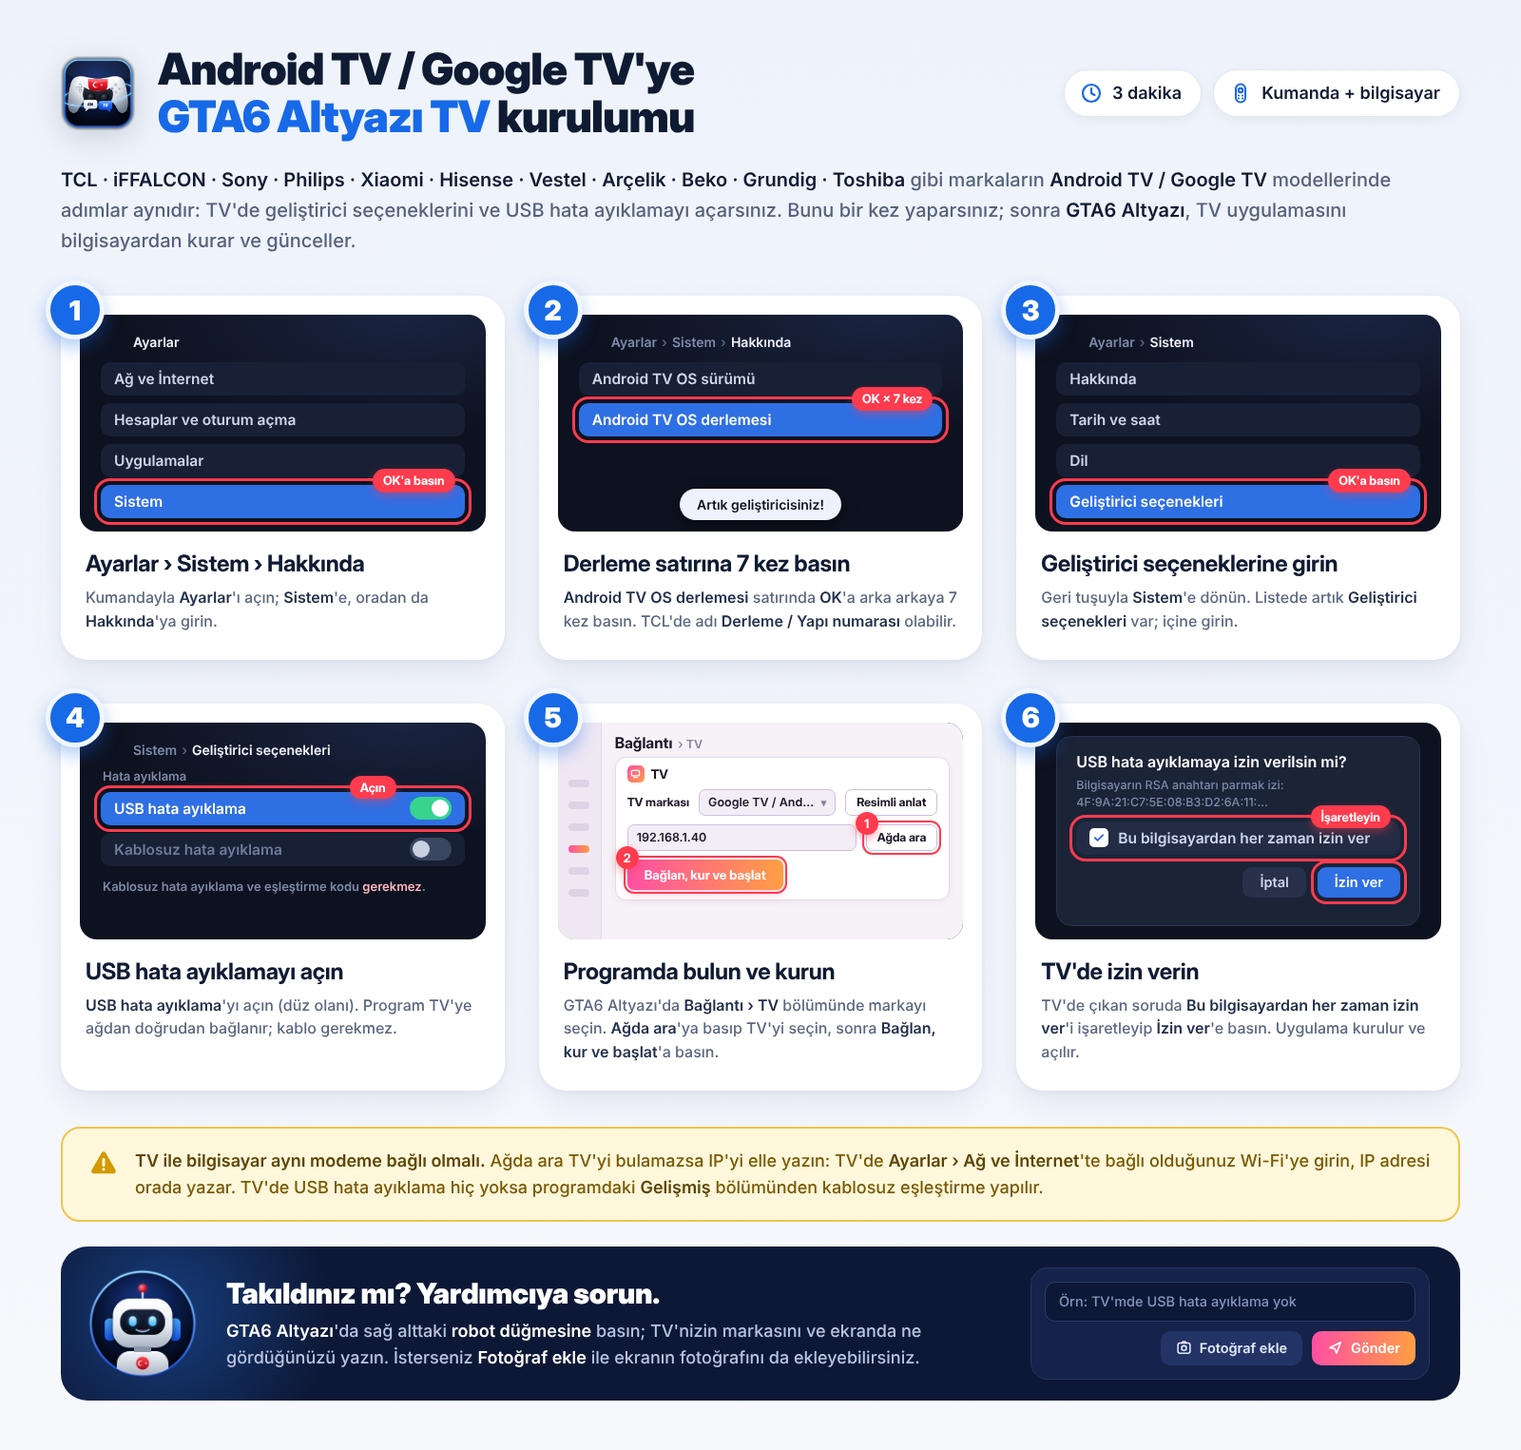
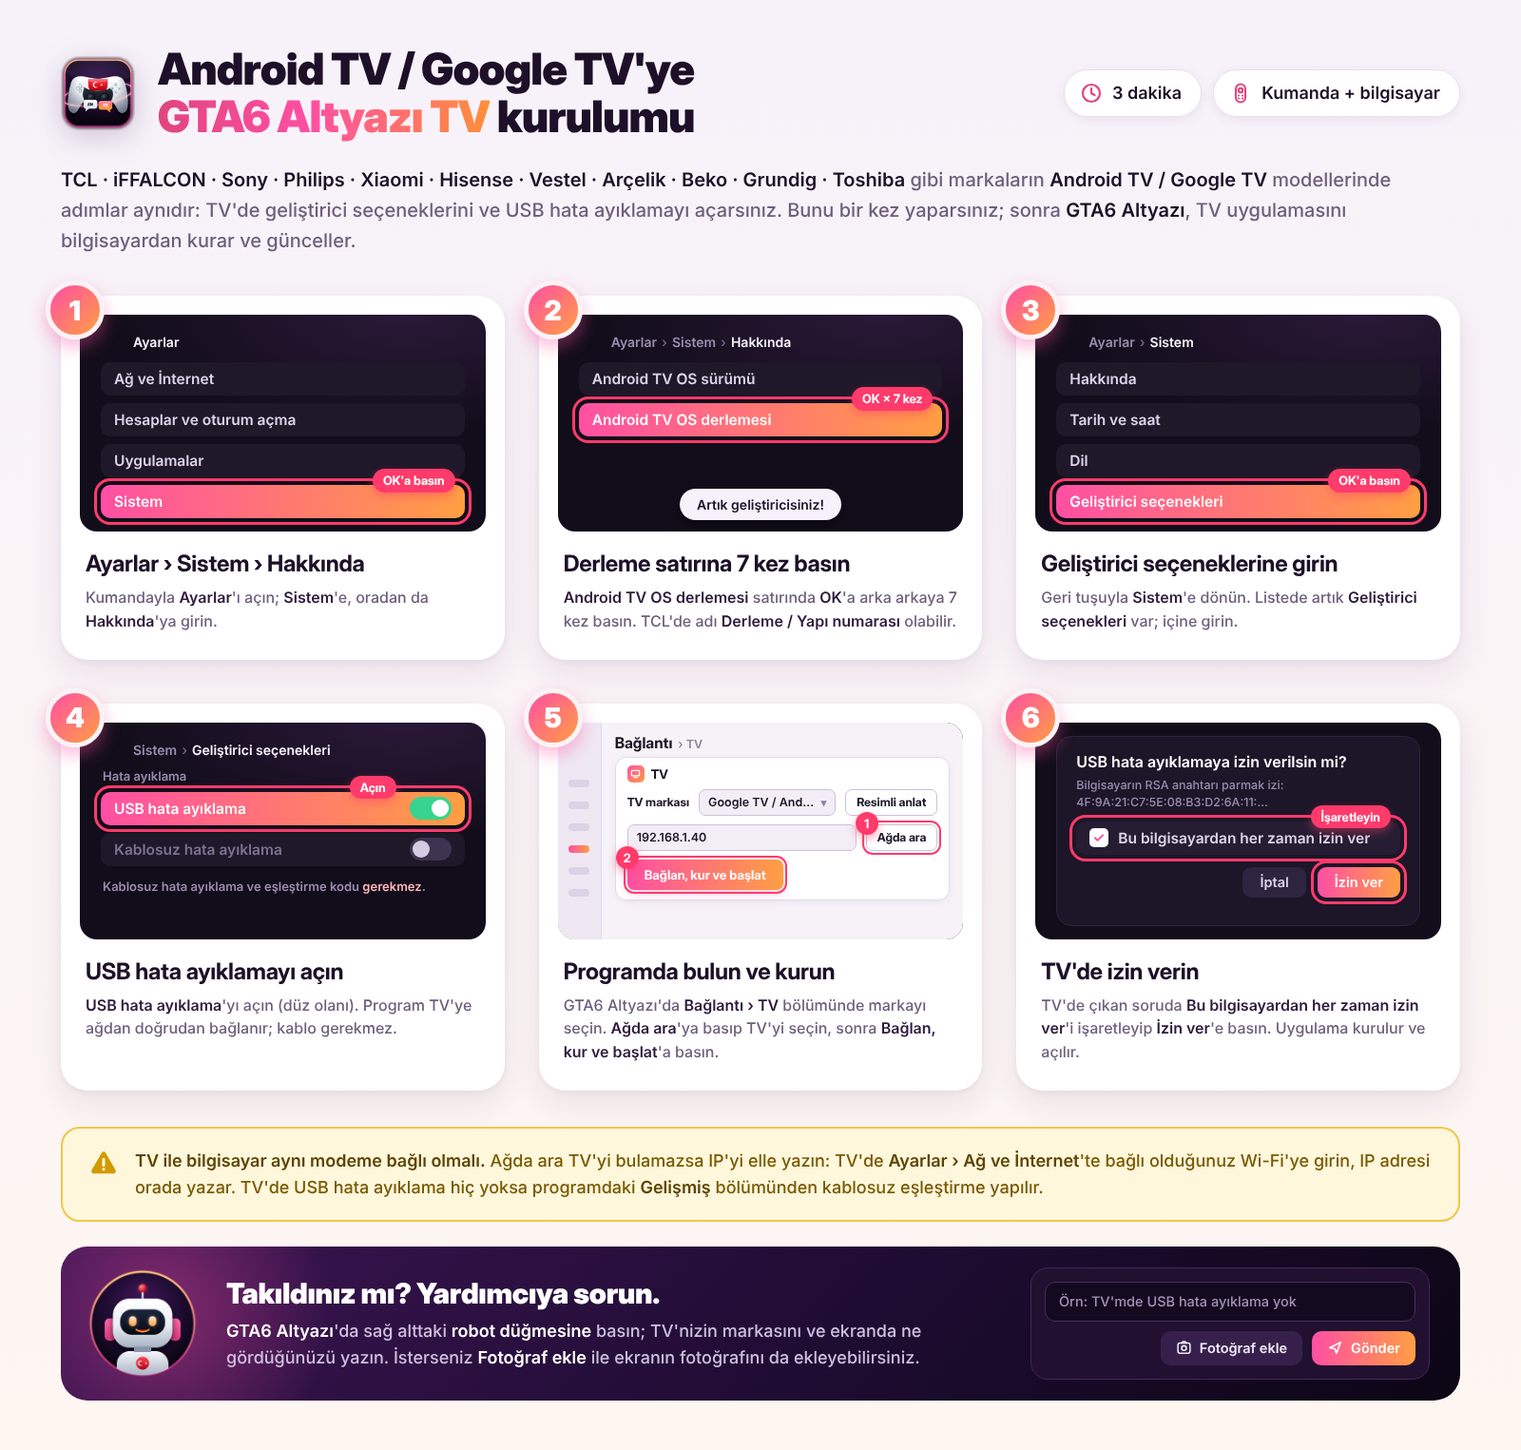
Görsellerin yeniden renklendirilmesi (ara kayıt)
Claude-Session: https://claude.ai/code/session_01Vsk1KccPrUYCuPzBtpR9u6

diff --git a/tools/kurulum_gorsel/sablon.html b/tools/kurulum_gorsel/sablon.html
@@ -15,28 +15,29 @@
 @font-face { font-family: "InterD"; font-weight: 900; src: url("../marka/fonts/InterDisplay-Black.otf"); }
 
 :root {
-  --navy: #0f1b33; --blue: #1769e8; --muted: #56627c; --hl: #2f6fe4; --red: #ff3b4e;
-  --tv: #0d1220; --tvrow: #182035; --tvtext: #cdd6ec; --tvfaint: #7d89a8;
+  --navy: #1d1028; --blue: #e0457f; --muted: #6e5f7d; --hl: linear-gradient(90deg, #ff4fa3, #ff9f43); --hlc: #ff4fa3; --red: #ff3b6b;
+  --grad: linear-gradient(135deg, #ff4fa3, #ff9f43);
+  --tv: #120d1a; --tvrow: #1f1829; --tvtext: #ddd3ea; --tvfaint: #9a8cae;
 }
 * { box-sizing: border-box; margin: 0; padding: 0; }
 html, body { width: 1600px; }
 body {
   font-family: "Inter", sans-serif; font-weight: 500; color: var(--navy);
-  background: linear-gradient(180deg, #eef3fb 0%, #f6f8fc 100%);
+  background: linear-gradient(180deg, #f7f2fa 0%, #fdf6f1 100%);
   padding: 48px 64px 52px; -webkit-font-smoothing: antialiased;
 }
 b { font-weight: 600; }
 
 /* ---------- üst kısım */
 .head { display: flex; align-items: center; gap: 24px; }
-.head .logo { width: 78px; height: 78px; flex: none; filter: drop-shadow(0 8px 16px rgba(15, 27, 51, .18)); }
+.head .logo { width: 78px; height: 78px; flex: none; filter: drop-shadow(0 8px 16px rgba(61, 21, 84, .22)); }
 .head h1 { flex: 1; font-family: "InterD"; font-weight: 900; font-size: 46px; line-height: 1.08; letter-spacing: -0.02em; }
-.head h1 em { font-style: normal; color: var(--blue); }
+.head h1 em { font-style: normal; color: #e0457f; background: linear-gradient(90deg, #e0457f 0%, #ff4fa3 45%, #ff8f3a 100%); -webkit-background-clip: text; background-clip: text; -webkit-text-fill-color: transparent; }
 .chips { display: flex; gap: 12px; flex: none; }
 .chip {
   display: flex; align-items: center; gap: 10px; white-space: nowrap;
-  background: #fff; border: 1px solid #e1e8f4; border-radius: 999px; padding: 12px 20px 12px 16px;
-  font-weight: 600; font-size: 18px; color: var(--navy); box-shadow: 0 3px 12px rgba(15, 27, 51, .06);
+  background: #fff; border: 1px solid #eddff0; border-radius: 999px; padding: 12px 20px 12px 16px;
+  font-weight: 600; font-size: 18px; color: var(--navy); box-shadow: 0 3px 12px rgba(61, 21, 84, .07);
 }
 .chip svg { width: 24px; height: 24px; color: var(--blue); }
 .intro { margin-top: 26px; font-size: 20px; line-height: 1.6; color: var(--muted); max-width: 1440px; }
@@ -47,95 +48,95 @@ b { font-weight: 600; }
 .grid { margin-top: 42px; display: grid; grid-template-columns: repeat(3, 1fr); gap: 46px 36px; }
 .card {
   position: relative; background: #fff; border-radius: 28px; padding: 20px 20px 28px;
-  box-shadow: 0 14px 34px rgba(22, 44, 96, .08), 0 2px 6px rgba(22, 44, 96, .05);
+  box-shadow: 0 14px 34px rgba(61, 21, 84, .09), 0 2px 6px rgba(61, 21, 84, .05);
 }
 .num {
   position: absolute; left: -16px; top: -16px; z-index: 5; width: 62px; height: 62px; border-radius: 50%;
-  background: var(--blue); color: #fff; border: 5px solid #f2f6fc; display: grid; place-items: center;
-  font-family: "InterD"; font-weight: 900; font-size: 29px; box-shadow: 0 8px 18px rgba(23, 105, 232, .35);
+  background: var(--grad); color: #fff; border: 5px solid #faf3f6; display: grid; place-items: center;
+  font-family: "InterD"; font-weight: 900; font-size: 29px; box-shadow: 0 8px 18px rgba(255, 79, 163, .4);
 }
 .card h3 { margin: 20px 6px 8px; font-family: "InterD"; font-weight: 700; font-size: 24px; line-height: 1.2; letter-spacing: -0.01em; }
-.card p { margin: 0 6px; font-size: 16px; line-height: 1.55; color: #5b6780; }
-.card p b { color: #22304d; }
+.card p { margin: 0 6px; font-size: 16px; line-height: 1.55; color: #6e5f7d; }
+.card p b { color: #2e1a3d; }
 
 /* ---------- TV ekranı taklidi */
 .screen { position: relative; height: 228px; border-radius: 18px; background: var(--tv); padding: 20px 22px; overflow: hidden; color: var(--tvtext); }
-.screen.glow { background: radial-gradient(120% 90% at 80% 0%, #1a2440 0%, var(--tv) 60%); }
+.screen.glow { background: radial-gradient(120% 90% at 80% 0%, #2a1838 0%, var(--tv) 60%); }
 .crumb { padding-left: 34px; margin-bottom: 13px; font-size: 14px; font-weight: 600; color: var(--tvfaint); white-space: nowrap; }
-.crumb b { color: #eef2fc; }
-.crumb i { font-style: normal; margin: 0 5px; color: #56627f; }
+.crumb b { color: #f6f1fb; }
+.crumb i { font-style: normal; margin: 0 5px; color: #6e5f82; }
 .row {
   position: relative; height: 35px; margin-bottom: 8px; padding: 0 14px; border-radius: 10px;
   display: flex; align-items: center; gap: 10px; background: var(--tvrow); font-size: 15.5px; font-weight: 600; white-space: nowrap;
 }
-.row.dim { color: #6f7b99; }
+.row.dim { color: #7e7092; }
 .row .sub { margin-left: auto; font-size: 12.5px; color: var(--tvfaint); }
 .hl { background: var(--hl) !important; color: #fff !important; outline: 3px solid var(--red); outline-offset: 4px; }
 .ring { outline: 3px solid var(--red); outline-offset: 4px; }
 .tag {
   position: absolute; z-index: 4; right: 10px; top: -17px; padding: 4px 11px; border-radius: 999px; white-space: nowrap;
-  background: var(--red); color: #fff; font-size: 13px; font-weight: 700; line-height: 1.25; box-shadow: 0 4px 10px rgba(255, 59, 78, .4);
+  background: var(--red); color: #fff; font-size: 13px; font-weight: 700; line-height: 1.25; box-shadow: 0 4px 10px rgba(255, 59, 107, .45);
 }
 .tag.n { right: auto; left: -12px; top: -14px; width: 24px; height: 24px; padding: 0; display: grid; place-items: center; font-size: 13px; }
 .row .tg + .tag { right: 72px; }
 .row .tg + .tag.edge { right: 10px; }
-.tg { margin-left: auto; position: relative; width: 44px; height: 24px; border-radius: 12px; background: #3a4560; flex: none; }
-.tg::after { content: ""; position: absolute; top: 3px; left: 3px; width: 18px; height: 18px; border-radius: 50%; background: #c8d0e2; }
+.tg { margin-left: auto; position: relative; width: 44px; height: 24px; border-radius: 12px; background: #3e3350; flex: none; }
+.tg::after { content: ""; position: absolute; top: 3px; left: 3px; width: 18px; height: 18px; border-radius: 50%; background: #d6cce2; }
 .tg.on { background: #36d48f; }
 .tg.on::after { left: 23px; background: #fff; }
 .hl .tg:not(.on) { background: rgba(255, 255, 255, .28); }
 .hl .tg:not(.on)::after { background: #fff; }
 .toast {
   position: absolute; left: 50%; bottom: 12px; transform: translateX(-50%); white-space: nowrap;
-  background: #eef2fc; color: #0d1220; border-radius: 999px; padding: 8px 18px; font-size: 14px; font-weight: 600;
+  background: #f6f1fb; color: #1d1028; border-radius: 999px; padding: 8px 18px; font-size: 14px; font-weight: 600;
   box-shadow: 0 6px 18px rgba(0, 0, 0, .4);
 }
 .hint { font-size: 13px; color: var(--tvfaint); font-weight: 600; }
 .hint b { color: #ffb4bc; }
 
 /* TV iletişim kutusu */
-.dlg-bg { position: absolute; inset: 0; background: rgba(4, 7, 14, .55); }
-.dlg { position: absolute; left: 22px; right: 22px; top: 14px; bottom: 14px; background: #1b2337; border-radius: 16px; padding: 16px 20px; border: 1px solid #2a3450; }
+.dlg-bg { position: absolute; inset: 0; background: rgba(8, 4, 14, .55); }
+.dlg { position: absolute; left: 22px; right: 22px; top: 14px; bottom: 14px; background: #1d1528; border-radius: 16px; padding: 16px 20px; border: 1px solid #2e2340; }
 .dlg h4 { font-size: 16px; font-weight: 600; color: #fff; margin-bottom: 6px; }
 .dlg .small { font-size: 12.5px; color: var(--tvfaint); line-height: 1.45; }
 .cb { width: 20px; height: 20px; border-radius: 5px; background: #fff; display: grid; place-items: center; flex: none; }
-.cb svg { width: 14px; height: 14px; color: var(--hl); }
+.cb svg { width: 14px; height: 14px; color: var(--hlc); }
 .btns { display: flex; justify-content: flex-end; gap: 12px; }
-.btn { position: relative; height: 32px; padding: 0 18px; border-radius: 9px; display: flex; align-items: center; font-size: 14.5px; font-weight: 600; background: #283149; color: #cdd6ec; white-space: nowrap; }
+.btn { position: relative; height: 32px; padding: 0 18px; border-radius: 9px; display: flex; align-items: center; font-size: 14.5px; font-weight: 600; background: #2e2440; color: #ddd3ea; white-space: nowrap; }
 
 /* rakam şeridi / döşemeler */
 .tiles { display: grid; grid-template-columns: repeat(5, 1fr); gap: 8px; }
-.tiles span { height: 30px; border-radius: 7px; background: #1a2238; }
-.digits { position: relative; display: flex; gap: 6px; padding: 9px; border-radius: 12px; background: #151c2e; border: 1px solid #263049; }
-.digits > span, .grp > span:not(.tag) { flex: 1; height: 34px; border-radius: 7px; background: #262f47; display: grid; place-items: center; font-size: 16px; font-weight: 600; color: #cdd6ec; }
-.grp > span.on { background: var(--hl); color: #fff; }
-.field { position: relative; height: 34px; border-radius: 9px; background: #0f1527; border: 1px solid #2c3754; display: flex; align-items: center; padding: 0 12px; font-size: 15px; font-weight: 600; color: #fff; }
+.tiles span { height: 30px; border-radius: 7px; background: #221a2e; }
+.digits { position: relative; display: flex; gap: 6px; padding: 9px; border-radius: 12px; background: #17121f; border: 1px solid #2e2340; }
+.digits > span, .grp > span:not(.tag) { flex: 1; height: 34px; border-radius: 7px; background: #2c2340; display: grid; place-items: center; font-size: 16px; font-weight: 600; color: #ddd3ea; }
+.grp > span.on { background: var(--hlc); color: #fff; }
+.field { position: relative; height: 34px; border-radius: 9px; background: #110c19; border: 1px solid #362a48; display: flex; align-items: center; padding: 0 12px; font-size: 15px; font-weight: 600; color: #fff; }
 .dh { position: relative; display: flex; align-items: center; margin-bottom: 12px; }
 .dh h4 { margin: 0; }
-.seg { display: flex; margin-left: auto; background: #0f1527; border-radius: 8px; padding: 3px; gap: 3px; }
+.seg { display: flex; margin-left: auto; background: #110c19; border-radius: 8px; padding: 3px; gap: 3px; }
 .seg span { padding: 4px 14px; border-radius: 6px; font-size: 13.5px; font-weight: 600; color: var(--tvfaint); }
-.seg span.on { background: var(--hl); color: #fff; outline: 3px solid var(--red); outline-offset: 3px; }
+.seg span.on { background: var(--hlc); color: #fff; outline: 3px solid var(--red); outline-offset: 3px; }
 
 /* kumanda */
-.remote { position: absolute; width: 104px; border-radius: 52px; background: linear-gradient(180deg, #2b3247, #1d2335); border: 1px solid #39425c; }
+.remote { position: absolute; width: 104px; border-radius: 52px; background: linear-gradient(180deg, #2e2540, #1e1729); border: 1px solid #3d3250; }
 .pwr { position: relative; width: 36px; height: 36px; border-radius: 50%; background: #e2434f; display: grid; place-items: center; margin: 0 auto; }
 .pwr svg { width: 20px; height: 20px; color: #fff; }
-.okring { width: 70px; height: 70px; border-radius: 50%; background: #39425c; margin: 18px auto 0; display: grid; place-items: center; font-size: 13px; font-weight: 600; color: #cdd6ec; }
-.okring span { width: 34px; height: 34px; border-radius: 50%; background: #4a5470; display: grid; place-items: center; }
+.okring { width: 70px; height: 70px; border-radius: 50%; background: #3d3250; margin: 18px auto 0; display: grid; place-items: center; font-size: 13px; font-weight: 600; color: #ddd3ea; }
+.okring span { width: 34px; height: 34px; border-radius: 50%; background: #4f4264; display: grid; place-items: center; }
 .rkeys { display: flex; justify-content: center; gap: 10px; margin-top: 16px; }
-.rkeys span { width: 22px; height: 22px; border-radius: 50%; background: #39425c; }
+.rkeys span { width: 22px; height: 22px; border-radius: 50%; background: #3d3250; }
 
 /* tarayıcı (açık) */
-.browser { position: absolute; inset: 0; background: #f4f6fb; color: #1d2433; }
-.browser .bar { height: 42px; background: #e6eaf2; display: flex; align-items: center; gap: 8px; padding: 0 14px 0 64px; }
-.browser .url { flex: 1; height: 26px; border-radius: 13px; background: #fff; display: flex; align-items: center; gap: 6px; padding: 0 12px; font-size: 13px; font-weight: 600; color: #3a4459; }
-.browser .url svg { width: 12px; height: 12px; color: #6b768c; }
-.browser .nav { display: flex; align-items: center; gap: 12px; padding: 14px 18px; border-bottom: 1px solid #e3e7ef; background: #fff; }
-.browser .brand { font-family: "InterD"; font-weight: 700; font-size: 15px; color: #1d2433; }
-.browser .lnk { font-size: 13px; font-weight: 600; color: #4a5468; }
+.browser { position: absolute; inset: 0; background: #f8f4f9; color: #1d1028; }
+.browser .bar { height: 42px; background: #ece4ef; display: flex; align-items: center; gap: 8px; padding: 0 14px 0 64px; }
+.browser .url { flex: 1; height: 26px; border-radius: 13px; background: #fff; display: flex; align-items: center; gap: 6px; padding: 0 12px; font-size: 13px; font-weight: 600; color: #463a55; }
+.browser .url svg { width: 12px; height: 12px; color: #7a6c8a; }
+.browser .nav { display: flex; align-items: center; gap: 12px; padding: 14px 18px; border-bottom: 1px solid #ebe2ee; background: #fff; }
+.browser .brand { font-family: "InterD"; font-weight: 700; font-size: 15px; color: #1d1028; }
+.browser .lnk { font-size: 13px; font-weight: 600; color: #574a66; }
 .browser .su { position: relative; height: 30px; padding: 0 14px; border-radius: 8px; background: var(--hl); color: #fff; font-size: 13px; font-weight: 600; display: flex; align-items: center; }
 .browser .body { padding: 18px; }
-.browser .ln { height: 10px; border-radius: 5px; background: #dfe4ee; margin-bottom: 10px; }
+.browser .ln { height: 10px; border-radius: 5px; background: #e8dfeb; margin-bottom: 10px; }
 
 /* ---------- GTA6 Altyazı uygulaması taklidi (açık tema) */
 .app { position: absolute; inset: 0; background: #f6f2f8; display: flex; color: #1c1525; }
@@ -170,35 +171,35 @@ b { font-weight: 600; }
 .hint.mid { position: absolute; left: 0; right: 0; top: 56px; text-align: center; font-size: 14px; line-height: 1.5; }
 .hint.below { margin-top: 12px; text-align: center; }
 .row + .hint { margin-top: 12px; padding-left: 2px; line-height: 1.45; }
-.dlgrow { margin: 11px 0 13px; background: #232c44; }
-.dlgrow2 { margin: 6px 0 12px; background: #232c44; }
+.dlgrow { margin: 11px 0 13px; background: #261d33; }
+.dlgrow2 { margin: 6px 0 12px; background: #261d33; }
 .dlg.tight { top: 24px; bottom: auto; padding: 16px 18px 18px; }
 .dlg.tight .field { margin-bottom: 14px; }
 .btns.left { justify-content: flex-start; margin-top: 12px; }
 .btn.blue { background: var(--hl); color: #fff; }
-.field.search { margin-bottom: 16px; color: #e8eefc; }
+.field.search { margin-bottom: 16px; color: #f2ecf8; }
 .field svg { width: 16px; height: 16px; margin-right: 9px; color: var(--tvfaint); }
 .store { display: flex; align-items: center; gap: 14px; padding: 14px; border-radius: 14px; background: var(--tvrow); }
 .store .ico { width: 58px; height: 58px; border-radius: 14px; flex: none; display: grid; place-items: center; background: linear-gradient(135deg, #7b5cff, #c03cff); color: #fff; font-size: 17px; font-weight: 700; }
 .store .nm { font-size: 16px; font-weight: 600; color: #fff; margin-bottom: 3px; }
 .store .btn { margin-left: auto; }
-.restart { display: flex; align-items: center; gap: 14px; margin-top: 10px; padding: 14px 16px; border-radius: 12px; background: #151c2e; border: 1px dashed #34405e; font-size: 14px; line-height: 1.45; color: var(--tvfaint); }
-.restart b { color: #e8eefc; font-size: 15px; }
-.restart svg { width: 30px; height: 30px; color: #5b9bff; flex: none; }
-.info { display: flex; gap: 0; margin-top: 4px; padding: 10px 16px; border-radius: 12px; background: #151c2e; }
+.restart { display: flex; align-items: center; gap: 14px; margin-top: 10px; padding: 14px 16px; border-radius: 12px; background: #17121f; border: 1px dashed #3a2d4d; font-size: 14px; line-height: 1.45; color: var(--tvfaint); }
+.restart b { color: #f2ecf8; font-size: 15px; }
+.restart svg { width: 30px; height: 30px; color: #ff7ab8; flex: none; }
+.info { display: flex; gap: 0; margin-top: 4px; padding: 10px 16px; border-radius: 12px; background: #17121f; }
 .info div { flex: 1; display: flex; flex-direction: column; gap: 2px; }
 .info span { font-size: 12.5px; font-weight: 600; color: var(--tvfaint); }
 .info b { font-size: 19px; color: #fff; letter-spacing: .01em; }
 .browser .mail { display: inline-flex; align-items: center; gap: 8px; margin-top: 8px; padding: 8px 12px; border-radius: 9px; background: #e5f6ec; color: #17784a; font-size: 13px; font-weight: 600; }
 .browser .mail svg { width: 14px; height: 14px; }
 .hbar { position: absolute; left: 22px; right: 22px; bottom: 24px; display: flex; gap: 10px; }
-.tile { position: relative; width: 96px; height: 80px; border-radius: 12px; background: #1a2238; flex: none; display: flex; flex-direction: column; align-items: center; justify-content: center; gap: 7px; font-size: 13px; font-weight: 600; color: var(--tvtext); }
+.tile { position: relative; width: 96px; height: 80px; border-radius: 12px; background: #221a2e; flex: none; display: flex; flex-direction: column; align-items: center; justify-content: center; gap: 7px; font-size: 13px; font-weight: 600; color: var(--tvtext); }
 .tile svg { width: 24px; height: 24px; }
-.tile.e { flex: 1; width: auto; background: #151c2e; }
+.tile.e { flex: 1; width: auto; background: #17121f; }
 .digits .grp { position: relative; flex: 5; display: flex; gap: 6px; border-radius: 9px; }
 .remote { left: 40px; top: 22px; height: 260px; padding-top: 22px; }
-.minitv { position: absolute; left: 178px; right: 24px; top: 98px; height: 108px; border-radius: 12px; border: 3px solid #39425c; background: #0a0f1b; display: flex; align-items: center; justify-content: center; gap: 14px; font-size: 14px; font-weight: 600; line-height: 1.4; color: var(--tvtext); }
-.minitv svg { width: 34px; height: 34px; color: #5b9bff; flex: none; }
+.minitv { position: absolute; left: 178px; right: 24px; top: 98px; height: 108px; border-radius: 12px; border: 3px solid #3d3250; background: #0c0814; display: flex; align-items: center; justify-content: center; gap: 14px; font-size: 14px; font-weight: 600; line-height: 1.4; color: var(--tvtext); }
+.minitv svg { width: 34px; height: 34px; color: #ff7ab8; flex: none; }
 
 /* ---------- uyarı ve yardım */
 .warn {
@@ -209,18 +210,18 @@ b { font-weight: 600; }
 .warn b { color: #5e4500; }
 .help {
   margin-top: 26px; display: flex; align-items: center; gap: 30px; padding: 22px 32px 22px 28px;
-  background: #0d1836; border-radius: 28px; color: #fff; overflow: hidden; position: relative;
+  background: linear-gradient(135deg, #3d1554 0%, #1f0c33 55%, #0c0614 100%); border-radius: 28px; color: #fff; overflow: hidden; position: relative;
 }
-.help::before { content: ""; position: absolute; left: -80px; top: -120px; width: 380px; height: 380px; border-radius: 50%; background: radial-gradient(circle, rgba(40, 130, 255, .35), transparent 65%); }
+.help::before { content: ""; position: absolute; left: -80px; top: -120px; width: 380px; height: 380px; border-radius: 50%; background: radial-gradient(circle, rgba(255, 79, 163, .38), transparent 65%); }
 .help .bot { position: relative; width: 116px; height: 116px; flex: none; }
 .help .txt { position: relative; flex: 1; }
 .help h2 { font-family: "InterD"; font-weight: 900; font-size: 30px; letter-spacing: -0.01em; margin-bottom: 8px; }
-.help p { font-size: 18px; line-height: 1.55; color: #b8c4df; }
+.help p { font-size: 18px; line-height: 1.55; color: #cdbfdc; }
 .help p b { color: #fff; }
-.ask { position: relative; width: 420px; flex: none; background: #15224a; border: 1px solid #263769; border-radius: 18px; padding: 14px; }
-.ask .q { height: 42px; border-radius: 11px; background: #0d1836; border: 1px solid #2b3c70; display: flex; align-items: center; padding: 0 14px; font-size: 14.5px; color: #8494bd; white-space: nowrap; overflow: hidden; }
+.ask { position: relative; width: 420px; flex: none; background: #221030; border: 1px solid #44275a; border-radius: 18px; padding: 14px; }
+.ask .q { height: 42px; border-radius: 11px; background: #140a1f; border: 1px solid #4a2b60; display: flex; align-items: center; padding: 0 14px; font-size: 14.5px; color: #a291b8; white-space: nowrap; overflow: hidden; }
 .ask .acts { display: flex; gap: 10px; margin-top: 10px; justify-content: flex-end; }
-.ask .acts span { height: 36px; padding: 0 16px; border-radius: 10px; display: flex; align-items: center; gap: 8px; font-size: 14.5px; font-weight: 600; background: #233366; color: #e3e9fb; }
+.ask .acts span { height: 36px; padding: 0 16px; border-radius: 10px; display: flex; align-items: center; gap: 8px; font-size: 14.5px; font-weight: 600; background: #36204b; color: #f1e9f8; }
 .ask .acts span svg { width: 17px; height: 17px; }
 .ask .acts span.go { background: linear-gradient(90deg, #ff4fa3, #ff9f43); color: #fff; }
 </style>
